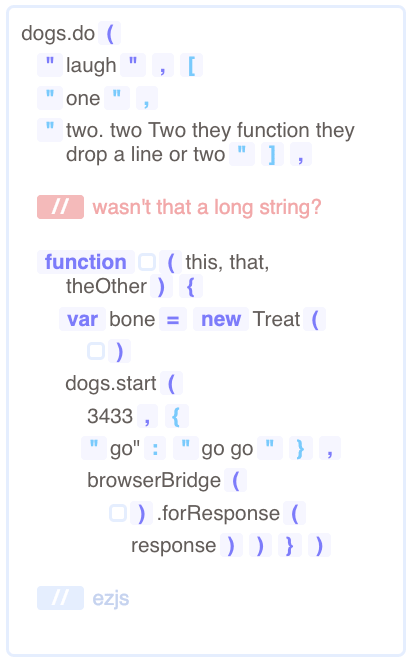
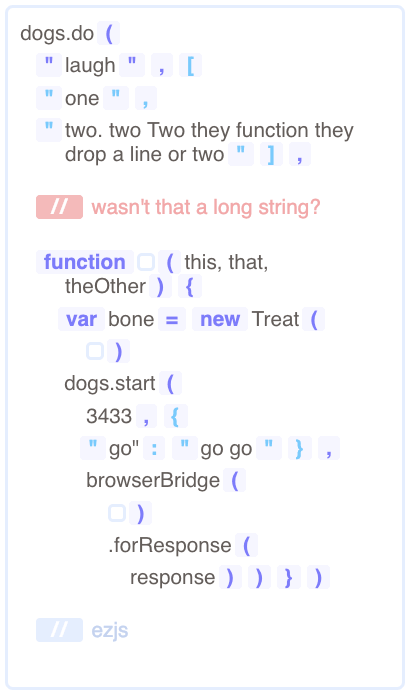
steez

diff --git a/demo.js b/demo.js
@@ -19,7 +19,8 @@ library.using([
       "      3433,{",
       "      \"go\":\"go go\"},",
       "      browserBridge(",
-      "        ).forResponse(",
+      "        )",
+      "        .forResponse(",
       "          response))})",
       "  // ezjs",
     ]
